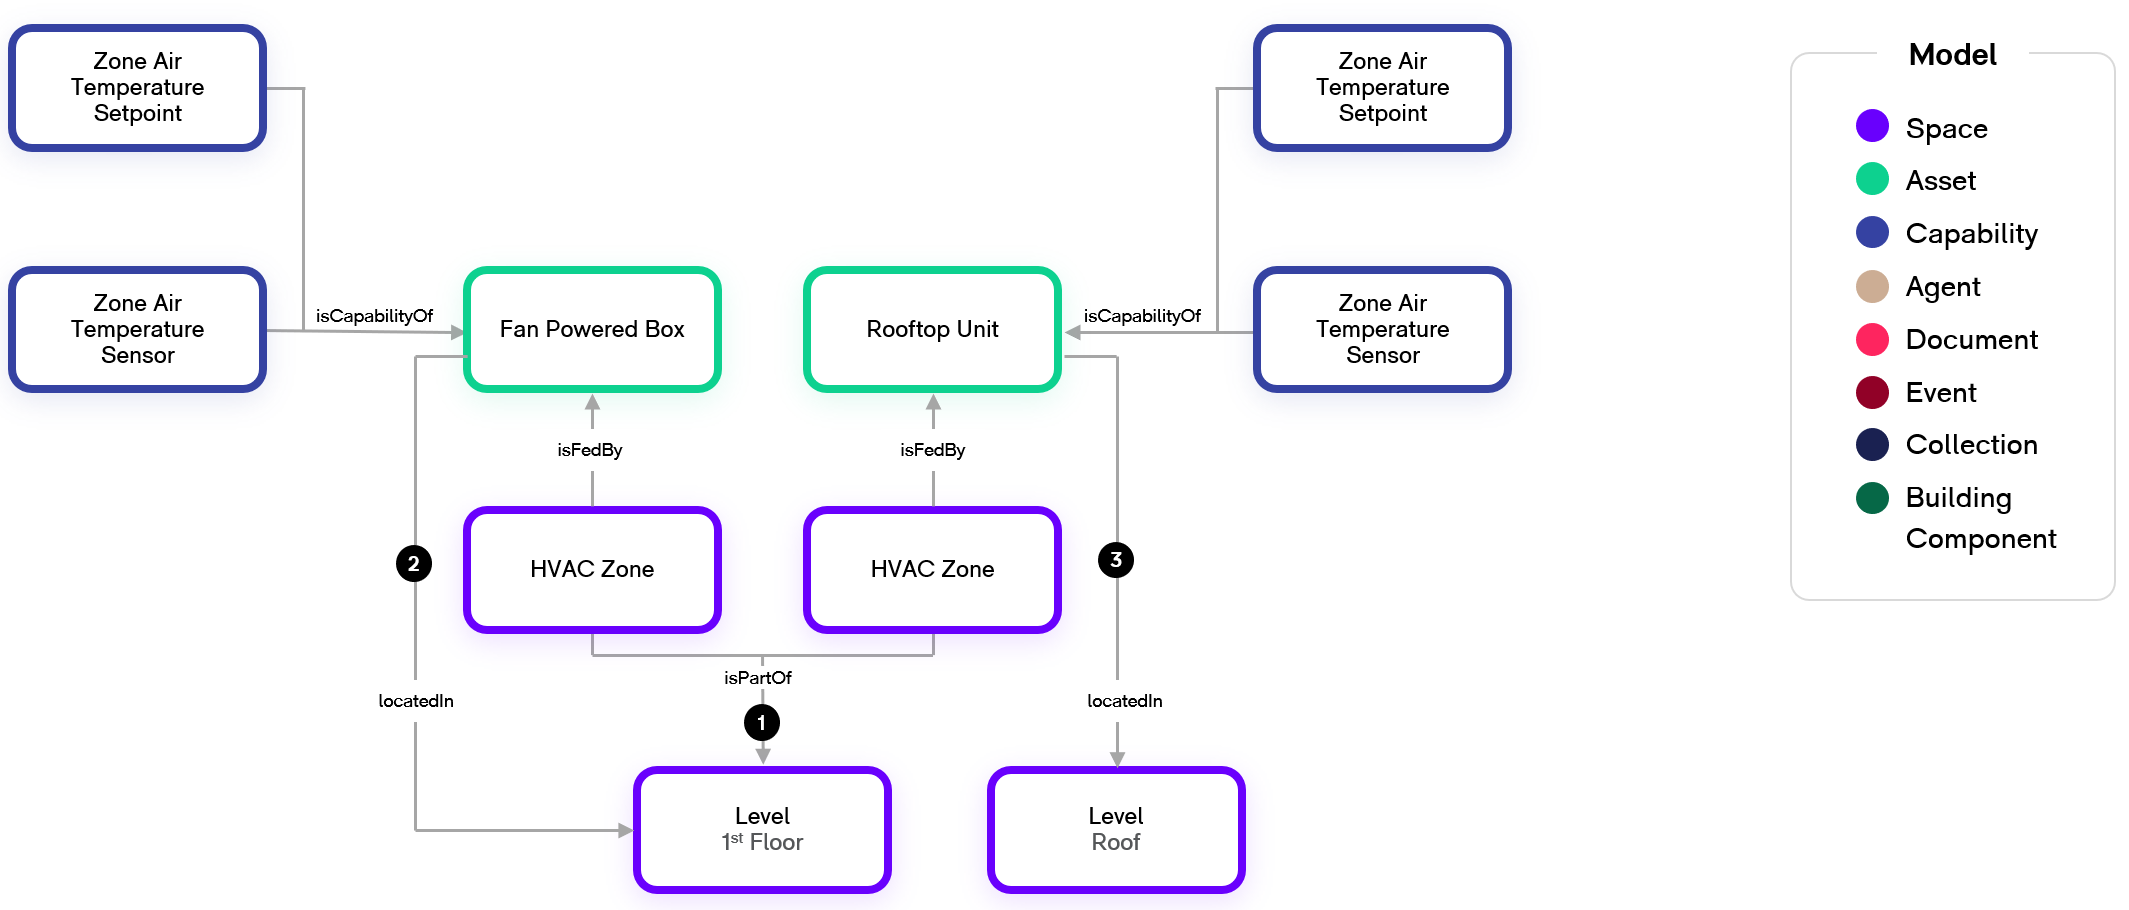
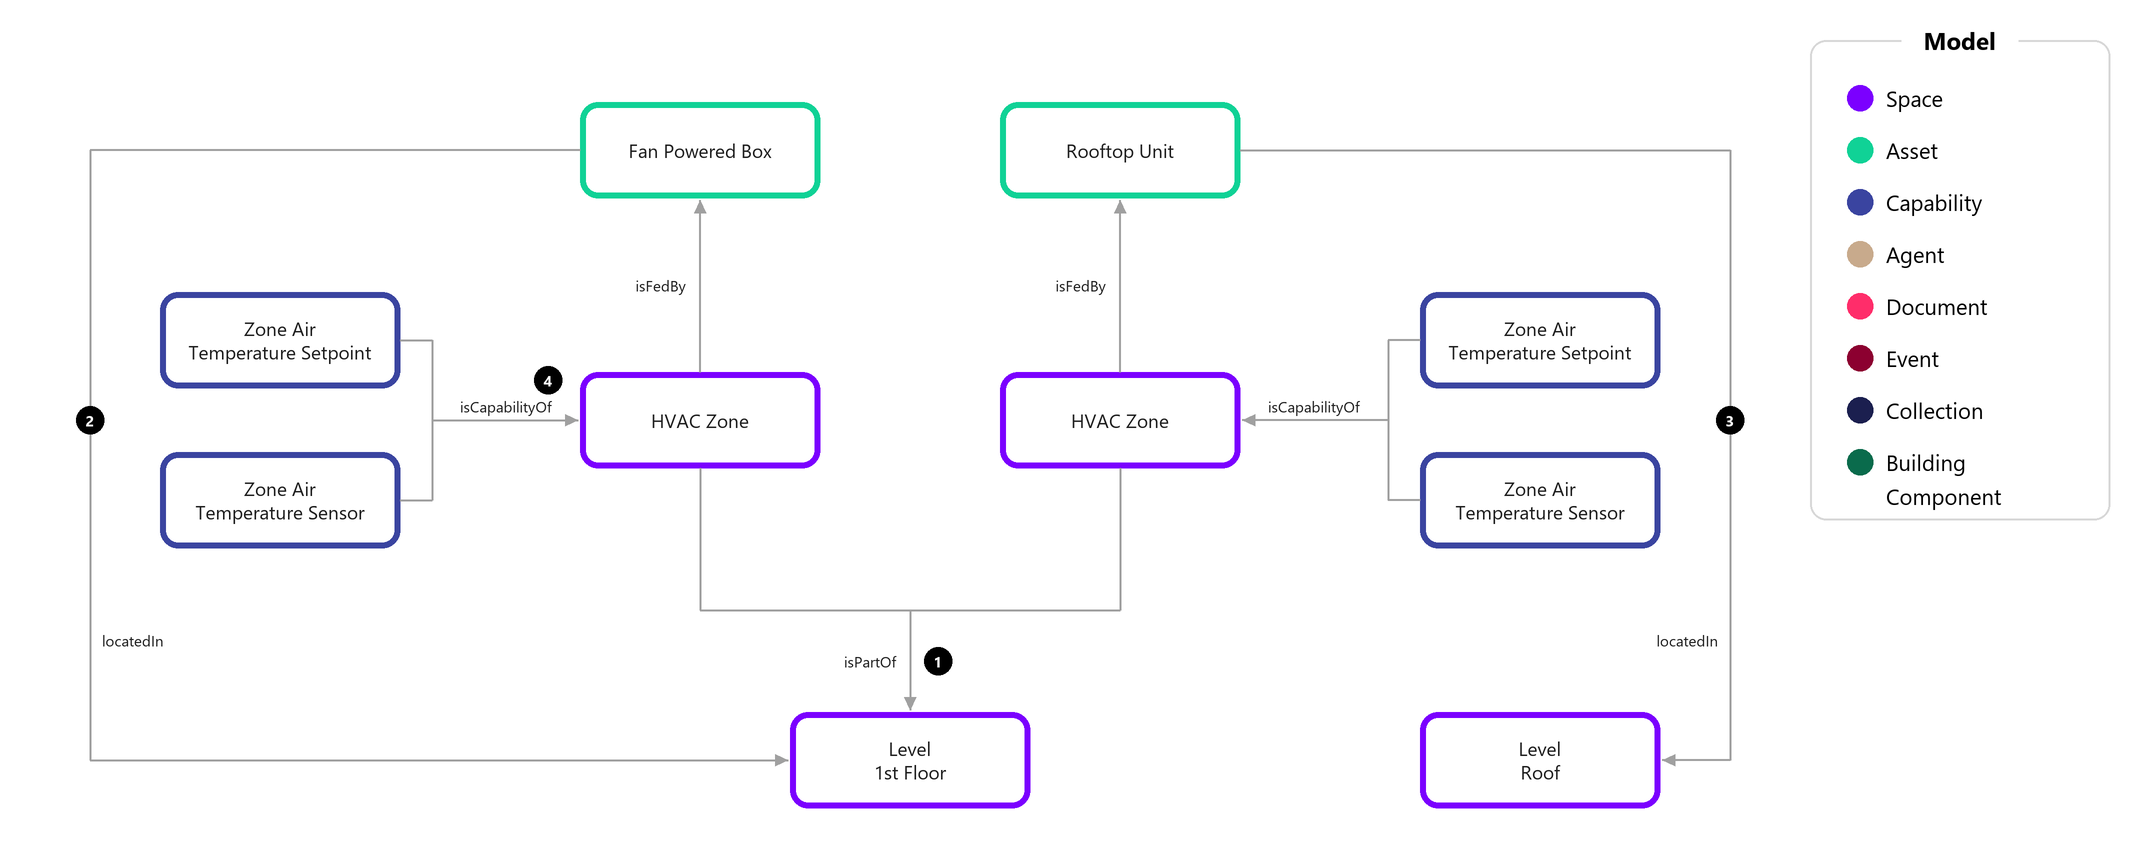
Move zone air points to the HVAC Zone in Basic Relationships with Level
HVAC-Example3 still showed the Zone Air Temperature Sensor and Setpoint as
capabilities of the Fan Powered Box and Rooftop Unit, which the zone point
modeling standard (Where Zone Air Points Belong) retired. Redraws it with
each HVAC Zone carrying its own sensor and setpoint and the units carrying
none, adds a PIL draw script under Images/Source, and adds note 4 tying the
example back to the standard.

diff --git a/Samples/Images/Source/HVAC-Example3.py b/Samples/Images/Source/HVAC-Example3.py
@@ -1,0 +1,193 @@
+"""Renders Samples/Images/HVAC-Example3.png.
+
+HVAC Basic Relationships with Level: a Fan Powered Box and a Rooftop Unit each feed
+an HVAC Zone, and both zones are part of the 1st Floor. The box is located on the
+1st Floor; the Rooftop Unit is located on the Roof. Each zone's Zone Air Temperature
+Sensor and Zone Air Temperature Setpoint are capabilities of the HVAC Zone, not of
+the unit which serves it.
+
+    python Samples/Images/Source/HVAC-Example3.py
+
+Requires Pillow. Uses Segoe UI when available, otherwise DejaVu Sans.
+"""
+import math
+import os
+
+from PIL import Image, ImageDraw, ImageFont
+
+S = 2  # supersampling factor; drawn at 2x, downscaled at the end
+W, H = 2140, 850
+
+SPACE = (123, 0, 255)
+ASSET = (16, 210, 150)
+CAPABILITY = (58, 68, 160)
+COLLECTION = (27, 31, 79)
+LINE = (160, 160, 160)
+TEXT = (30, 30, 30)
+LEGEND = [
+    ("Space", SPACE),
+    ("Asset", ASSET),
+    ("Capability", CAPABILITY),
+    ("Agent", (200, 170, 140)),
+    ("Document", (255, 45, 106)),
+    ("Event", (140, 0, 48)),
+    ("Collection", COLLECTION),
+    ("Building\nComponent", (10, 107, 76)),
+]
+
+HERE = os.path.dirname(os.path.abspath(__file__))
+OUT = os.path.join(HERE, "..", "HVAC-Example3.png")
+
+
+def font(size, bold=False):
+    names = ["segoeuib.ttf", "DejaVuSans-Bold.ttf"] if bold else ["segoeui.ttf", "DejaVuSans.ttf"]
+    dirs = ["C:/Windows/Fonts", os.path.expanduser("~/AppData/Local/Microsoft/Windows/Fonts"),
+            "/usr/share/fonts/truetype/dejavu", ""]
+    for name in names:
+        for d in dirs:
+            try:
+                return ImageFont.truetype(os.path.join(d, name), size * S)
+            except OSError:
+                pass
+    return ImageFont.load_default()
+
+
+BOX_FONT = font(19)
+LABEL_FONT = font(15)
+CALLOUT_FONT = font(15, bold=True)
+LEGEND_FONT = font(22)
+LEGEND_TITLE = font(24, bold=True)
+
+img = Image.new("RGB", (W * S, H * S), "white")
+d = ImageDraw.Draw(img)
+
+
+def s(*v):
+    return [x * S for x in v]
+
+
+def box(cx, cy, text, color, w=200, h=96):
+    x0, y0, x1, y1 = cx - w / 2, cy - h / 2, cx + w / 2, cy + h / 2
+    d.rounded_rectangle(s(x0, y0, x1, y1), radius=18 * S, fill="white", outline=color, width=6 * S)
+    d.multiline_text(s(cx, cy), text, font=BOX_FONT, fill=TEXT, anchor="mm", align="center", spacing=3 * S)
+    return dict(l=x0, r=x1, t=y0, b=y1, cx=cx, cy=cy)
+
+
+def line(*pts):
+    d.line(s(*pts), fill=LINE, width=2 * S, joint="curve")
+
+
+def arrow(x0, y0, x1, y1):
+    line(x0, y0, x1, y1)
+    a = math.atan2(y1 - y0, x1 - x0)
+    L, w = 13, 6
+    p1 = (x1 - L * math.cos(a) + w * math.sin(a), y1 - L * math.sin(a) - w * math.cos(a))
+    p2 = (x1 - L * math.cos(a) - w * math.sin(a), y1 - L * math.sin(a) + w * math.cos(a))
+    d.polygon(s(x1, y1, *p1, *p2), fill=LINE)
+
+
+def label(x, y, text, anchor="mm"):
+    d.multiline_text(s(x, y), text, font=LABEL_FONT, fill=TEXT, anchor=anchor, align="center", spacing=4 * S)
+
+
+def callout(x, y, n):
+    r = 14
+    d.ellipse(s(x - r, y - r, x + r, y + r), fill="black")
+    d.text(s(x, y), str(n), font=CALLOUT_FONT, fill="white", anchor="mm")
+
+
+def capabilities_of(target, caps, side, num=None):
+    """caps are boxes on `side` ('left'/'right') of target; bracket and arrow into target."""
+    if side == "left":
+        bx = caps[0]["r"] + 32
+        for c in caps:
+            line(c["r"], c["cy"], bx, c["cy"])
+        line(bx, caps[0]["cy"], bx, caps[-1]["cy"])
+        arrow(bx, target["cy"], target["l"] - 2, target["cy"])
+        label((bx + target["l"]) / 2, target["cy"] - 14, "isCapabilityOf")
+        if num:
+            callout(target["l"] - 32, target["t"] + 8, num)
+    else:
+        bx = caps[0]["l"] - 32
+        for c in caps:
+            line(c["l"], c["cy"], bx, c["cy"])
+        line(bx, caps[0]["cy"], bx, caps[-1]["cy"])
+        arrow(bx, target["cy"], target["r"] + 2, target["cy"])
+        label((bx + target["r"]) / 2, target["cy"] - 14, "isCapabilityOf")
+        if num:
+            callout(target["r"] + 32, target["t"] + 8, num)
+
+
+def fed_by_up(sources, target, bus_y, text, num=None):
+    """sources (below) isFedBy target (above): verticals up to a bus, one arrow into target."""
+    for c in sources:
+        line(c["cx"], c["t"], c["cx"], bus_y)
+    if len(sources) > 1:
+        line(sources[0]["cx"], bus_y, sources[-1]["cx"], bus_y)
+    arrow(target["cx"], bus_y, target["cx"], target["b"] + 2)
+    my = (bus_y + target["b"]) / 2
+    label(target["cx"] - 16, my, text, anchor="rm")
+    if num:
+        callout(target["cx"] + 28, my, num)
+
+
+# --- units, the zones they feed, and the levels -------------------------------------
+fpb = box(700, 150, "Fan Powered Box", ASSET, w=240)
+rtu = box(1120, 150, "Rooftop Unit", ASSET, w=240)
+zone_l = box(700, 420, "HVAC Zone", SPACE, w=240)
+zone_r = box(1120, 420, "HVAC Zone", SPACE, w=240)
+floor1 = box(910, 760, "Level\n1st Floor", SPACE, w=240)
+roof = box(1540, 760, "Level\nRoof", SPACE, w=240)
+
+for z, u in ((zone_l, fpb), (zone_r, rtu)):
+    arrow(z["cx"], z["t"], u["cx"], u["b"] + 2)
+    label(z["cx"] - 14, (z["t"] + u["b"]) / 2, "isFedBy", anchor="rm")
+
+# --- both zones isPartOf the 1st Floor ------------------------------------------
+bus_y = 610
+for z in (zone_l, zone_r):
+    line(z["cx"], z["b"], z["cx"], bus_y)
+line(zone_l["cx"], bus_y, zone_r["cx"], bus_y)
+arrow(floor1["cx"], bus_y, floor1["cx"], floor1["t"] - 2)
+label(floor1["cx"] - 14, (bus_y + floor1["t"]) / 2, "isPartOf", anchor="rm")
+callout(floor1["cx"] + 28, (bus_y + floor1["t"]) / 2, 1)
+
+# --- zone air points are capabilities of each HVAC Zone ------------------------------
+caps_l = [box(280, 340, "Zone Air\nTemperature Setpoint", CAPABILITY, w=240),
+          box(280, 500, "Zone Air\nTemperature Sensor", CAPABILITY, w=240)]
+capabilities_of(zone_l, caps_l, "left", 4)
+caps_r = [box(1540, 340, "Zone Air\nTemperature Setpoint", CAPABILITY, w=240),
+          box(1540, 500, "Zone Air\nTemperature Sensor", CAPABILITY, w=240)]
+capabilities_of(zone_r, caps_r, "right")
+
+# --- locatedIn: box on the 1st Floor, Rooftop Unit on the Roof ------------------------
+lx = 90
+line(fpb["l"], fpb["cy"], lx, fpb["cy"], lx, floor1["cy"])
+arrow(lx, floor1["cy"], floor1["l"] - 2, floor1["cy"])
+label(lx + 12, 640, "locatedIn", anchor="lm")
+callout(lx, 420, 2)
+
+rx = 1730
+line(rtu["r"], rtu["cy"], rx, rtu["cy"], rx, roof["cy"])
+arrow(rx, roof["cy"], roof["r"] + 2, roof["cy"])
+label(rx - 12, 640, "locatedIn", anchor="rm")
+callout(rx, 420, 3)
+
+# --- legend -------------------------------------------------------------------
+lx0, ly0, lx1, ly1 = 1810, 40, 2110, 520
+d.rounded_rectangle(s(lx0, ly0, lx1, ly1), radius=16 * S, outline=(215, 215, 215), width=2 * S)
+tw = d.textlength("Model", font=LEGEND_TITLE) / S
+tx = (lx0 + lx1) / 2
+d.rectangle(s(tx - tw / 2 - 22, ly0 - 4, tx + tw / 2 + 22, ly0 + 4), fill="white")
+d.text(s(tx, ly0), "Model", font=LEGEND_TITLE, fill="black", anchor="mm")
+y = ly0 + 58
+for name, color in LEGEND:
+    d.ellipse(s(lx0 + 50 - 13, y - 13, lx0 + 50 + 13, y + 13), fill=color)
+    d.multiline_text(s(lx0 + 76, y), name, font=LEGEND_FONT, fill="black", anchor="lm", spacing=10 * S) \
+        if "\n" not in name else d.multiline_text(s(lx0 + 76, y - 15), name, font=LEGEND_FONT, fill="black",
+                                                   anchor="la", spacing=10 * S)
+    y += 52
+
+out = img.resize((W, H), Image.LANCZOS)
+out.save(os.path.abspath(OUT), optimize=True)
+print("wrote", os.path.abspath(OUT))

diff --git a/Samples/03-HVAC.md b/Samples/03-HVAC.md
@@ -54,6 +54,8 @@ Every example in this document follows the same rule for zone air sensors and se
 
 3. Rooftop Units commonly condition spaces that are not on the same level in which they are located. The Rooftop Unit here is located on the Roof but conditions the 1st Floor.
 
+4. Each HVAC Zone carries its own Zone Air Temperature Sensor and Zone Air Temperature Setpoint as capabilities of the HVAC Zone. Neither the Fan Powered Box nor the Rooftop Unit carries zone air points, whichever level it is located on - see Where Zone Air Points Belong above.
+
 ## HVAC Pressurization Zone
 
 ![HVACPressurizationZone-Example1](Images/HVACPressurizationZone-Example1.png)
